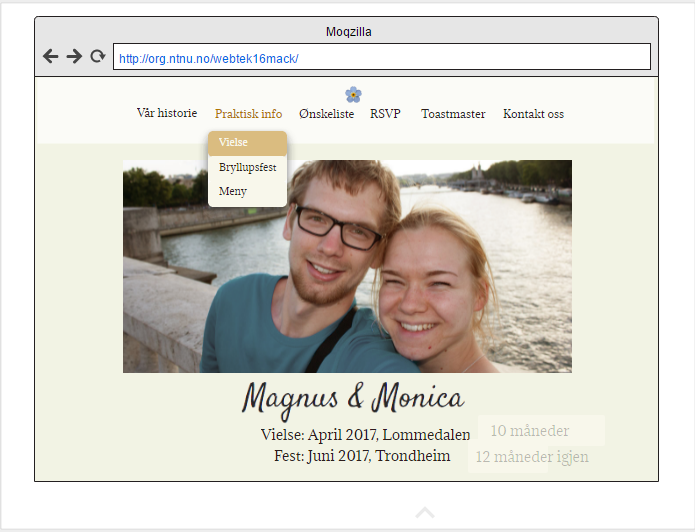
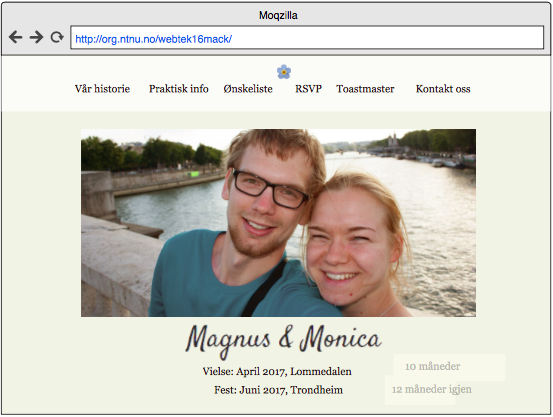
oppdaterte moqups

diff --git a/public_html/Documents/P2_design.html b/public_html/Documents/P2_design.html
@@ -32,7 +32,7 @@ Filnavn: P2_design.html
 
         <section>
             <h2>3. Hensikt, mål og målgruppe </h2>
-            <p>Nettsidens hensikt er å informere målgruppen, bryllupsgjestene, om bryllupet. Det skal være mulig å få info om paret, praktisk info om vielsen/festen, parets ønskeliste og kontaktinfo til paret, toastmaster og oss. Nettsidens målgruppe er bryllupsgjestene. Ettersom målgruppens erfaringer med pc og internett varierer i stor grad, er målet med nettsiden å gjøre all informasjon vedrørende bryllupet lett tilgjengelig og oversiktlig. </p>
+            <p>Nettsidens hensikt er å informere målgruppen, bryllupsgjestene, om bryllupet. Det skal være mulig å få info om paret, praktisk info om vielsen/festen, parets ønskeliste og kontaktinfo til paret og toastmaster. Nettsidens målgruppe er bryllupsgjestene. Ettersom målgruppens erfaringer med pc og internett varierer i stor grad, er målet med nettsiden å gjøre all informasjon vedrørende bryllupet lett tilgjengelig og oversiktlig. </p>
         </section>
 
         <section>
@@ -40,26 +40,27 @@ Filnavn: P2_design.html
             <p>
                 Navigasjonsstrukturen vi bruker er "clique" der alle tilgjengelige sider er koblet til hverandre. Vi skal bruke en navigasjonsbar med drop-down-meny for å løse dette. På enhver side er navigasjonsbaren alltid synlig slik at man kan nå alle de andre sidene, til og med forsiden.
 
-                Vi velger å bruke denne strukturen fordi vi mener den gir brukeren en god oversikt og muligheten til å raskt (få klikk) kunne navigere seg rundt på siden. Denne strukturen passer godt til nettsiden vår ettersom den bare består av 8-10 sider.
+                Vi velger å bruke denne strukturen fordi vi mener den gir brukeren en god oversikt og muligheten til å raskt (dva med få klikk) kunne navigere seg rundt på siden. Denne strukturen passer godt til nettsiden vår ettersom den bare består av 8-10 sider.
             </p>
 
         </section>
 
        <section>
-            <h2> Layout og utseende</h2>
+            <h2>5.  Layout og utseende</h2>
 
             <p>
               Vil ha en enkel og stilren nettside. Designet skal være enkelt for å gjenspeile kundens ønske om å ha en brukervennlig nettside. Designet skal også være romantisk og avslappet for å gi gjestene et intrykk av at bryllupsdagen skal være en hyggelig dag for både paret og gjestene. Kunden hadde ikke noen spesifikke krav til farge, font og logo, så disse er valgt slik at de passer forsidebildet vi har fått av kunden.
             </p>
 
             <ul>
-                <li>Font: Satisfy 26 px til kundenes navn på forsiden og overskrifter. Geneva til generell tekst (12 px), navigasjonsbar (14px), dropdownmeny (12 px) og dato på forside (14 px).</li>
+                <li>Font: Satisfy 30 px til kundenes navn på forsiden og overskrifter. Georgia 12 px til all annen tekst bortsett fra fotnote som skal være 10 px. </li>
                 <li>Farger
                     <ul>
                         <li>Tekst: svart</li>
-                        <li>Bakgrunn: #f2f3e4 <li>
-                        <li>Navigasjonsbar: hvit </li>
-                        <li>Linker: #dabc80 </li>
+                        <li>Bakgrunn: #f2f3e4 </li>
+                        <li>Navigasjonsbar: hvit, 70% transparent </li>
+                        <li>Linker: #b07500 </li>
+                        <li>Fotnote : #444444</li>
                     </ul>
                 </li>
                 <li>Navigasjonsbar: Er plassert horisontalt på toppen av siden. Når man skroller nedover skal navigasjonsbaren skal alltid være synlig på toppen av siden.
@@ -68,14 +69,14 @@ Filnavn: P2_design.html
 
                 <li>Logo: Logoen skal være en liten forglemmegei, som vi tegner selv, som er plasset midt på nav-baren. Den fungerer som en hjemknapp.</li>
 
-                <li>Fotnote: "Laget av M. Do, K. Duong, C. Tørklep, A. Vuong i emnet IT2805 ved NTNU."</li>
+                <li>Fotnote: "Laget av M. Do, K. Duong, C. Tørklep, A. Vuong i emnet IT2805 ved NTNU.".</li>
             </ul>
 
             <img src="img/mal.png"/>
 
         </section>
 
-        <section>
+        <section id="innhold">
           <h2> Innhold</h2>
             <p>
                 Vår nettside skal bestå av følgende sider:
@@ -83,39 +84,46 @@ Filnavn: P2_design.html
 
             <ol>
                 <li>index.html <br>
-                Hjem-siden skal være minimal og bare bestå av nav-bar, forsidebilde og dato og sted for bryllupet for å gi gjestene et inntrykk av en ryddig side, som samtidig er informativ nok. Kunden ønsket at datoen for bryllupet bare skulle bestå av måned og år slik at fremmede ikke dukker opp på deres store dag. Når man har beveger musepekeren over datoen for bryllupet skal en nedteller ta over plassen til datoen. Denne nedtelleren skal si hvor mange måneder det er igjen til bryllupet og skal ha samme fonttype og størrelse som datoen, men i en annen nyanse.
-                    <img src="img/index.png"/>
+                Hjem-siden skal være minimal og bare bestå av nav-bar, forsidebilde og dato og sted for bryllupet for å gi gjestene et inntrykk av en ryddig side, som samtidig er informativ nok. Kunden ønsket at datoen for bryllupet bare skulle bestå av måned og år slik at fremmede ikke dukker opp på deres store dag. Når man har beveger musepekeren over datoen for bryllupet skal en nedteller ta over plassen til datoene. Denne nedtelleren skal si hvor mange måneder det er igjen til bryllupet og skal ha samme fonttype, farge og størrelse som datoen. <br>
+                <img src="img/index.png"/>
                 </li>
                 <li>var_historie.html<br>
-                    Denne siden skal bestå av en tidslinje med noen få utvalgte datoer, bilder, og hendelser som er viktige for brudeparet. Dette er for at gjestene skal kunne føle seg litt involvert og dermed mer velkomne til brudeparets bryllup. Tidslinjen skal være vertikal og midstilt og hendelsene hendelsene skal ordnes i omvendt kronologisk rekkefølge. Hendelsene skal plasseres annen hver gang på begge sider av tidlinjen for å bruke mindre plass uten å få siden til å se rotete ut.
+                    Denne siden skal bestå av en tidslinje med noen få utvalgte datoer, bilder, og hendelser som er viktige for brudeparet. Dette er for at gjestene skal kunne føle seg litt involvert og dermed mer velkomne til brudeparets bryllup. Tidslinjen skal være vertikal og midstilt og hendelsene skal ordnes i omvendt kronologisk rekkefølge. Hendelsene skal plasseres annen hver gang på begge sider av tidlinjen for å bruke mindre plass uten å få siden til å se rotete ut. <br>
                     <img src="img/var_historie.png"/>
                 </li>
                 <li>vielse.html<br>
-                    Denne siden skal inneholde et kort program for den store dagen, adressen til kirken og en veibeskrivelse for hvordan man kommer dit med bil eller kollektiv transport. Kunden ønsker å ha denne løsningen ettersom slikt informasjon ikke får plass i innbydelsen. Adressen skal vises i en boks til høyre for at gjestene raskt skal kunne finne adressen. Boksen har fargen #d5d5d5. Nederst vises adressen i Google Maps.  Vi velger å bruke Google Maps fremfor et statisk kart fordi Google gjør det mulig å finne veibeskrivelse til kirkens adresse. Vi kommer til å vise tidspunkt for vielsen hvis kunden godtar dette.
+                    Denne siden skal inneholde et kort program for den store dagen, adressen til kirken og en veibeskrivelse for hvordan man kommer dit med bil eller kollektiv transport. Kunden ønsker å ha denne løsningen ettersom slikt informasjon ikke får plass i innbydelsen. Adressen skal vises i en boks til venstre for at gjestene raskt skal kunne finne adressen. Boksen har fargen #d5d5d5. Nederst vises adressen i Google Maps.  Vi velger å bruke Google Maps fremfor et statisk kart fordi Google gjør det mulig å finne veibeskrivelse til kirkens adresse. Vi kommer til å vise tidspunkt for vielsen hvis kunden godtar dette.
+                    <br>
                     <img src="img/vielse.png"/>
                 </li>
                 <li>bryllupsfest.html<br>
-                    Denne siden skal inneholde et kort program for festen, adressen til festlokalet og en veibeskrivelse for hvordan man kommer dit med bil eller kollektiv transport. Kunden ønsker å ha denne løsningen ettersom slikt informasjon ikke får plass i innbydelsen. Adressen skal vises i en boks til høyre for at gjestene raskt skal kunne finne adressen. Boksen har fargen #d5d5d5. Nederst vises adressen i Google Maps.  Vi velger å bruke Google Maps fremfor et statisk kart fordi Google gjør det mulig å finne veibeskrivelse til festlokalets adresse. Vi kommer til å vise tidspunkt for vielsen hvis kunden godtar dette.
+                    Denne siden skal inneholde et kort program for festen, adressen til festlokalet og en veibeskrivelse for hvordan man kommer dit med bil eller kollektiv transport. Ellers er designet helt likt som vielse.html.
+                    <br>
                     <img src="img/bryllupsfest.png"/>
                 </li>
                 <li>meny.html<br>
                     Enkel side med menyen for bryllupsfesten. Det skal være mulighet for gjestene å se hvilke allergener som finnes i hver rett. Under RSVP kan gjestene deretter si i fra om hva de er allergiske mot slik at brudeparet skal kunne tilpasse maten best mulig.
+                    <br>
                     <img src="img/meny.png"/>
                 </li>
                 <li>onskeliste.html<br>
-                  Kunden skal ikke bruke bryllupslister fra bestemte butikker og vil derfor ha ønskeliste på denne siden for at gjester kan se hva de ønsker seg. Hvert ønske skal ha bilde, navn, modell, farge, størrelse, antall og evt pris og forslag til hvor det kan kjøpes. Øverst på siden skal kontaktinfo til brudens mor være synlig slik at gjester skal kunne registrere ønsker.
+                  Kunden skal ikke bruke bryllupslister fra bestemte butikker og vil derfor ha ønskeliste på denne siden for at gjester kan se hva de ønsker seg. Hvert ønske skal ha bilde, navn, modell, farge, størrelse, antall og evt pris og forslag til hvor det kan kjøpes. Øverst på siden skal kontaktinfo (navn, tlf, e-post) til en bekjent av paret være synlig slik at gjester skal kunne registrere ønsker.
+                  <br>  
                   <img src="img/onskeliste.png"/>
                 </li>
                 <li>rsvp.html<br>
                   Denne siden består at et skjema der gjestene skal registrere om de kommer eller ikke kommer til vielsen og festen. Skjemaet har fargen #d5d5d5. Det er mulig å registrere matallergier. Om du registrerer svar for din familie eller partner, fyller du også inn hvilke andre gjester som kommer. Når man trykker send, vil innputdata automatisk legges til i et Google spreadsheet-dokument som kunden har tilgang til. Selv om det selvfølgelig er mulig å si i fra til brudeparet at man kommer på andre måter enn å bruke dette skjemaet, brukes det for unngå mest mulig jobb for brudeparet.
+                    <br>    
                   <img src="img/rsvp.png"/>
                 </li>
                 <li>toastmaster.html<br>
                     Enkel side med kort info om hvem man kontakter (navn, tlf, e-post) hvis man vil holde tale i bryllupet. Slik vil kunden ha det for å kunne selv kunne vite hvor mye tid de må sette av til taler.
+                    <br>
                     <img src="img/toastmaster.png"/>
                 </li>
                 <li>kontakt_oss.html<br>
                     Enkel side med telefonnummer og e-postadresse til brudeparet i tilfelle gjestene lurer på noe mer.
+                    <br>
                     <img src="img/kontakt_oss.png"/>
                 </li>
 
@@ -139,12 +147,12 @@ Filnavn: P2_design.html
         <section>
           <h2>8. Plan </h2> <!--8.Plan-->
             <div> <!--Filstruktur-->
-              <h3>Fil struktur</h3>
+              <h3>Filstruktur</h3>
                 <h4>html-filer</h4>
                   <ul>
                     <li>index.html</li>
                     <li>var_historie.html</li>
-                    <li><s>praktisk_info</s></li>
+                    <li>praktisk_info/</li>
                       <ul>
                         <li>vielse.html</li>
                         <li>bryllupsfest.html</li>
@@ -211,13 +219,6 @@ Filnavn: P2_design.html
                       <td>Tidslinje</td>
                       <td>Kim</td>
                       <td>23.10.2016</td>
-                    </tr>
-
-                    <tr>
-                      <td><s>praktisk_info</s></td>
-                      <td>Knapp som har drop down meny (java)</td>
-                      <td></td>
-                      <td></td>
                     </tr>
 
                     <tr>
